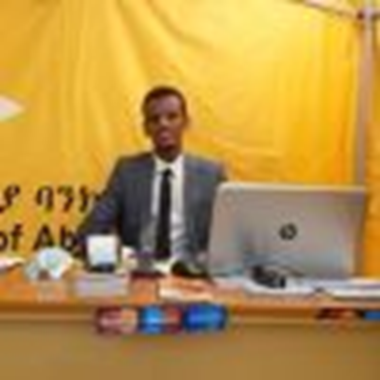
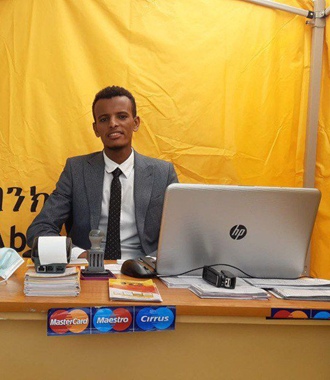
linux friendly

diff --git a/src/routes/AppRoutes.jsx b/src/routes/AppRoutes.jsx
@@ -7,16 +7,16 @@ import { useAppSelector } from "../app/hooks";
 
 
 // ========== TEMPLATE PUBLIC SITE ==========
-import RootLayout from "@/layouts/root";
-import TemplateHome from "@/pages/home";
-import About from "@/pages/about";
-import Services from "@/pages/services";
-// import Team from "@/pages/team";
-import Faq from "@/pages/faq";
-import PricingTemplate from "@/pages/pricing";
-import NotFound from "@/pages/not-found";
-import CookiesPage from "@/pages/CookiesPage";
-import Contact from "@/pages/contact";
+import RootLayout from "@/layouts/root.jsx";
+import TemplateHome from "@/pages/home.jsx";
+import About from "@/pages/about.jsx";
+import Services from "@/pages/services.jsx";
+// import Team from "@/pages/team.jsx";
+import Faq from "@/pages/faq.jsx";
+import PricingTemplate from "@/pages/pricing.jsx";
+import NotFound from "@/pages/not-found.jsx";
+import CookiesPage from "@/pages/CookiesPage.jsx";
+import Contact from "@/pages/contact.jsx";
 
 // ========== YOUR INTERNAL APP PAGES ==========
 const TermsPage = lazy(() => import("../pages/TermsPage"));

diff --git a/src/components/sections/workProcess.jsx b/src/components/sections/workProcess.jsx
@@ -81,12 +81,12 @@ const WorkProcess = ({ order, isLampImgTop }) => {
                   <>
                     <img
                       className="image-box-item"
-                      src="/img/AI-Image/about.png"
+                      src="/img/AI-Image/andres-siimon.jpg"
                       alt="image"
                     />
                     <img
                       className="image-box-item"
-                      src="/img/AI-Image/about.png"
+                      src="/img/AI-Image/andres-siimon.jpg"
                       alt="image"
                     />
                   </>

diff --git a/src/components/sections/about/aboutOne.jsx b/src/components/sections/about/aboutOne.jsx
@@ -33,12 +33,12 @@ const AboutOne = ({ className, inVideoBg }) => {
                 <div className="img-box">
                   <img
                     className="image-box-item"
-                    src="/img/AI-Image/about.png"
+                    src="/img/AI-Image/about-two.png"
                     alt="image"
                   />
                   <img
                     className="image-box-item"
-                    src="/img/AI-Image/about.png"
+                    src="/img/AI-Image/about-two.png"
                     alt="image"
                   />
                 </div>

diff --git a/src/layouts/root.jsx b/src/layouts/root.jsx
@@ -10,9 +10,9 @@ import "@/assets/css/header.css";
 import "@/assets/css/style.css";
 import "@/assets/css/responsive.css";
 
-import Header from "@/components/sections/header/header"; 
-import Footer from "@/components/sections/footer"; 
-import AddAnimation from "@/components/ui/addAnimation";
+import Header from "@/components/sections/header/header.jsx"; 
+import Footer from "@/components/sections/footer.jsx"; 
+import AddAnimation from "@/components/ui/addAnimation.jsx";
 
 
 const RootLayout = () => {

diff --git a/src/components/sections/header/offcanvasNavbar.jsx b/src/components/sections/header/offcanvasNavbar.jsx
@@ -1,7 +1,7 @@
 // src/components/sections/header/offcanvasNavbar.jsx
 import React from "react";
 import { Link, useLocation, useNavigate } from "react-router-dom";
-import { navigationData } from "@/db/navigationData";
+import { navigationData } from "@/db/navigationData.js";
 
 const ResponsiveNavbar = () => {
   const { pathname } = useLocation();

diff --git a/src/pages/TermsPage.jsx b/src/pages/TermsPage.jsx
@@ -1,7 +1,7 @@
 // src/pages/TermsConditions.jsx
 import React from "react";
 import { Link } from "react-router-dom";
-import PageHeader from "@/components/sections/pageHeader";
+// import PageHeader from "@/components/sections/pageHeader.jsx";
 
 const TermsConditions = () => {
   return (

diff --git a/src/components/sections/header/navbar.jsx b/src/components/sections/header/navbar.jsx
@@ -1,6 +1,6 @@
 import React from "react";
 import { Link, useLocation } from "react-router-dom";
-import { navigationData } from "@/db/navigationData";
+import { navigationData } from "@/db/navigationData.js";
 import { useAppSelector } from "../../../app/hooks";
 
 const Navbar = () => {

diff --git a/src/components/sections/imageGallery.jsx b/src/components/sections/imageGallery.jsx
@@ -1,6 +1,6 @@
 import React from "react";
 import { motion } from "motion/react";
-import { galleryItemsData } from "@/db/galleryItemsData";
+import { galleryItemsData } from "@/db/galleryItemsData.js";
 
 const itemVariants = {
   initial: { opacity: 0, scale: 0.9 },

diff --git a/src/pages/PrivacyPolicyPage.jsx b/src/pages/PrivacyPolicyPage.jsx
@@ -1,7 +1,7 @@
 
 import React from "react";
 import { Link } from "react-router-dom";
-import PageHeader from "@/components/sections/pageHeader";
+// import PageHeader from "@/components/sections/pageHeader.jsx";
 
 const PrivacyPolicy = () => {
   return (

diff --git a/src/pages/CookiesPage.jsx b/src/pages/CookiesPage.jsx
@@ -1,4 +1,4 @@
-import PageHeader from "@/components/sections/pageHeader";
+// import PageHeader from "@/components/sections/pageHeader.jsx";
 import React from "react";
 import { Link } from "react-router-dom";
 
